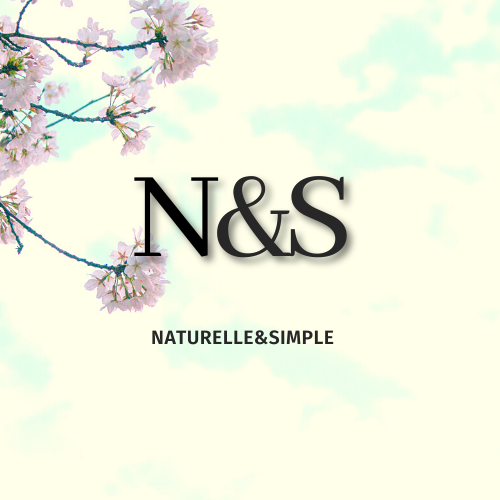
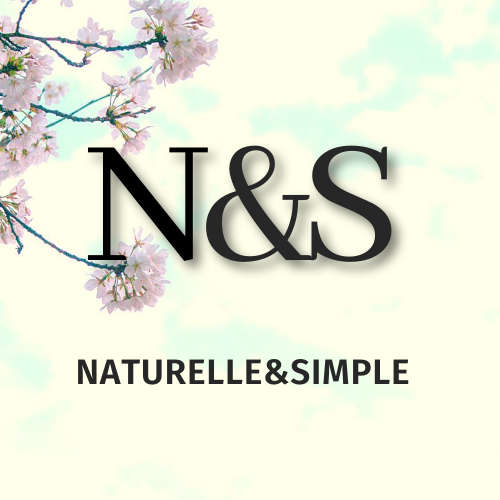
modifs

diff --git a/style.css b/style.css
@@ -129,7 +129,7 @@ td button:hover{
 /* Acceuil */
 
 body{
-    font-family: Playfair Display;
+    font-family: 'display fair';
 }
 
 #collection{
@@ -154,7 +154,8 @@ h1{
     justify-content: center;
     align-items: center;
     font-size: 2rem;
-    font-weight: bold;     
+    font-weight: bold;
+    margin-top: 80px;     
 }
 
 video{
@@ -275,7 +276,7 @@ td button:hover{
 /* FOOTER */
 
 footer {
-    margin-top: 100px;
+    margin-top: 200px;
     width: 100%;
 	height: 20vh;
     border: 1px solid black;
